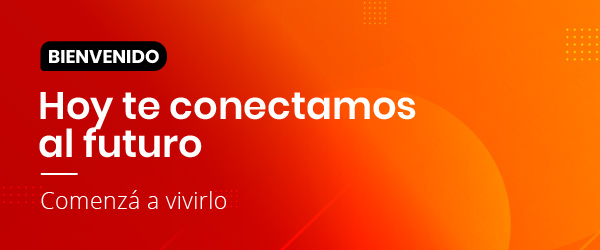
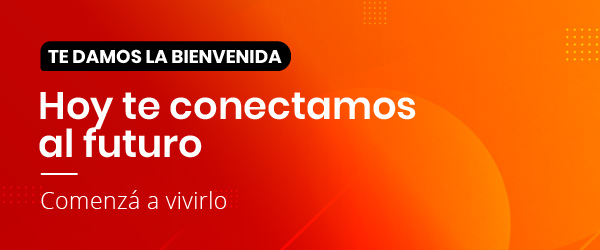
Bienvenida Nuevo Cliente Post Instalación

Changed region(s): [[0.06, 0.14, 0.51, 0.308]]

diff --git a/mailing/nuevo-cliente/nuevo-cliente.html b/mailing/nuevo-cliente/nuevo-cliente.html
@@ -1,0 +1,167 @@
+<!DOCTYPE html>
+<html lang="es-AR">
+
+<head>
+    <meta http-equiv="Content-Type" content="text/html; ">
+    <meta charset="utf-8">
+    <title>Eternet: notificaciones</title>
+    <meta http-equiv="X-UA-Compatible" content="IE=edge">
+    <meta name="viewport" content="width=device-width, initial-scale=1.0">
+    <!-- Forzar initial-scale no es necesario -->
+    <meta content="IE"="edge" http-equiv="X-UA-Compatible" />
+    <!-- La ultima version de (edge) IE rendering engine -->
+    <link
+        href="https://fonts.googleapis.com/css?family=Lato:300,400,400i,700|Poppins:300,400,500,600,700|PT+Serif:400,400i&amp;display=swap"
+        rel="stylesheet" type="text/css">
+    <!-- favicon -->
+    <link rel="apple-touch-icon" sizes="180x180" href="https://promos.eternet.cc/images/apple-touch-icon.png" />
+    <link rel="icon" type="image/png" sizes="32x32" href="https://promos.eternet.cc/images/favicon-32x32.png" />
+    <link rel="icon" type="image/png" sizes="16x16" href="https://promos.eternet.cc/images/favicon-16x16.png" />
+    <link rel="manifest" href="https://promos.eternet.cc/images/site.webmanifest" />
+    <link rel="mask-icon" href="https://promos.eternet.cc/images/safari-pinned-tab.svg" color="#ff7000" />
+</head>
+<style>
+    .font-1 {font-size: 18px;}
+    .font-2 {font-size: 28px;}
+    .small {font-size: 18px;}
+    .tittle {font-size: 30px;}
+
+    @media (max-width: 992px) {
+    .font-1 {font-size: 16px;}
+    .font-2 {font-size: 22px;}
+    .small {font-size: 12px;}
+    .tittle {font-size: 24px;}
+    }
+</style>
+<body style="max-width: 600px; margin: 0px auto; font-family: Poppins !important; font-size: 18px; color: #000000;line-height: 25px; background-color: #fff !important; box-sizing: border-box; padding: 25px; ">
+    <table style="max-width: 600px; margin: 0px auto;">
+        <tbody>
+            <tr>
+                <td>
+                    <div class="font-1" style=" font-weight: 400; text-align: center;">
+                        <!-- <p>Hola <span style="font-weight:bold;">{{contacto}}</span>!</p> -->
+                        <p>Hola <span style="font-weight:bold;">Francisco</span>!</p>
+                    </div>
+                    <div style="padding: 0px;margin: 0px;line-height: 12px;">
+                        <img style="width: 100%; border-radius: 8px;" src="https://cdn.eternet.cc/mailing/nuevo-cliente/nuevo-cliente.jpg" alt="Bienvenido, Hoy te conectamos al futuro.">
+                    </div>
+                    <table width="100%">
+                        <tbody>
+                            <tr height="25px"></tr>
+                            <tr>
+                                <td style="padding: 20px; background-color: #f0f0f0; border-radius: 8px; text-align: center;">
+                                    <p class="font-1" style="font-weight: 400; margin-block-start: 0px; margin-block-end: 0px">
+                                    A partir de ahora podrás acceder a nuestra web para poder gestionar y consultar sobre tu servicio.</p>
+                                </td>
+                            </tr>
+                            <tr height="50px"></tr>
+                        </tbody>
+                    </table>
+                    <table width="100%">
+                        <tbody>
+                            <tr>
+                                <td style="text-align: center;">
+                                    <h2 class="tittle" style="font-weight: bold; margin-block-start: 0px; margin-block-end: 0px;">Demos de alta tu usuario</h2>
+                                </td>
+                            </tr>
+                            <tr height="25px"></tr>
+                        </tbody>
+                    </table>
+                    <table width="100%">
+                        <tbody>
+                            <tr>
+                                <td style="text-align: center;">
+                                    <p class="font-1" style="font-weight: 400; margin-block-start: 0px; margin-block-end: 0px">Para poder registrarte deberás ingresar tu <strong
+                                    style="font-weight: 700;">N° de Cliente, DNI o CUIT</strong></p>
+                                </td>
+                            </tr>
+                            <tr height="25px"></tr>
+                        </tbody>
+                    </table>
+                    <div style="margin: 0 auto;">
+                        <table align="center" cellpadding="0" cellspacing="0">
+                            <tbody>
+                                <tr>
+                                    <td align="center" bgcolor="#FF5100" style="padding: 10px 20px; -webkit-border-radius:30px; -moz-border-radius:30px; border-radius:30px; color:#ffffff; display:block;">
+                                        <a href="https://www.eternet.com.ar/mi-cuenta/registrarme" style="color:#ffffff; font-size:18px; font-weight:bold; text-decoration:none; width:100%; display:inline-block;" target="_new">
+                                        Quiero Registrarme</a>
+                                    </td>
+                                </tr>
+                            </tbody>
+                        </table>
+                    </div>
+                    <table width="100%">
+                        <tbody>
+                            <tr height="50px"></tr>
+                            <tr>
+                                <td style="text-align: center">
+                                    <h2 class="tittle" style="font-weight: bold; margin-block-start: 0px; margin-block-end: 0px; padding-bottom: 25px;">
+                                        Tu Oficina Virtual</h2>
+                                    <div style="text-align: center; margin-bottom: 25px;">
+                                        <p class="font-1" style="font-weight: 400; margin-block-start: 0px;margin-block-end: 0px;  ">
+                                            Luego de haberte registrado, <strong>podrás acceder</strong> a un conjunto de opciones <strong>para tener autogestión sobre tu servicio</strong> en todo momento y desde cualquier lugar.
+                                        </p>
+                                    </div>
+                                </td>
+                            </tr>
+                        </tbody>
+                    </table>
+                    <table width="100%" height="2">
+                        <tbody>
+                            <tr>
+                                <td style="-webkit-border-radius:3px; -moz-border-radius:3px; border-radius:3px; background-color: #FF5100;">
+                                </td>
+                            </tr>
+                            <tr height="10px"></tr>
+                        </tbody>
+                    </table>
+                    <table height="26" cellpadding="0" cellspacing="8">
+                        <tbody>
+                            <tr style="max-width: 600px;">
+                                <td >
+                                    <a href="https://www.facebook.com/Eternet.Oficial/" target="_blank" moz-do-not-send="true"><img style="width: 26px; height: 26px; margin-right: 5px;"  alt="facebook/eternet.oficial" src="https://cdn.eternet.cc/mailing/images/face.png"></a>
+                                </td>
+                                <td >
+                                    <a href="https://www.instagram.com/eternet.oficial/?hl=es-la" target="_blank" moz-do-not-send="true"><img style="width: 26px; height: 26px; margin-right: 5px;"  alt="instagram/eternet.oficial" src="https://cdn.eternet.cc/mailing/images/inst.png"></a>
+                                </td>
+                                <td >
+                                    <a href="https://ar.linkedin.com/company/eternetoficial" name="linkedin_eternet" target="_blank" moz-do-not-send="true"><img style="width: 26px; height: 26px; margin-right: 5px;"  alt="linkedin" src="https://cdn.eternet.cc/mailing/images/in.png"></a>
+                                </td>
+                                <td style="width:502px; text-align: right; -webkit-border-radius:8px; -moz-border-radius:8px; border-radius:8px;">
+                                    <a href="tel:08003453737" target="_blank" moz-do-not-send="true"><img alt="0800-345-3737" src="https://cdn.eternet.cc/mailing/images/tel.png"></a>
+                                </td>
+                            </tr>
+                            <tr height="10px"></tr>
+                        </tbody>
+                    </table>
+                    <table cellpadding="0" cellspacing="0">
+                        <tbody>
+                            <tr>
+                                <td style=" font-weight: 400; line-height: 16px; font-size: 12px; color: #000000; text-align: center;">
+                                    <p style="margin-block-start: 0px; margin-block-end: 0px;">
+                                        Estimado/a cliente este correo fue
+                                        <strong style="font-weight: 500; color: #FF5100;">generado automáticamente</strong>, te pedimos por
+                                        favor
+                                        <strong style="font-weight: 500; color: #FF5100;">no responderlo</strong>. Te recordamos que podés
+                                        realizar consultas a través del:
+                                        <a style="font-weight: 500;text-decoration: none; color: #FF5100;"
+                                            href="tel:0800-345-3737">0800-345-3737</a>
+                                        o por WhatsApp al:
+                                        <a style="font-weight: 500;text-decoration: none;color:#FF5100"
+                                            href="https://wa.me/5492983585651?text=Hola">+5492983585651</a>
+                                    </p>
+                                </td>
+                            </tr>
+                            <tr height="20px"></tr>
+                        </tbody>
+                    </table>
+                    <div style="max-width: 600px; min-width: 300px; text-align: center">
+                        <img style="margin: 0px auto; display: inline-block;" class="mt m-auto"
+                            src="https://cdn.eternet.cc/mailing/images/logo.png" alt="Eternet">
+                    </div>
+                </td>
+            </tr>
+        </tbody>
+    </table>
+</body>
+</html>
